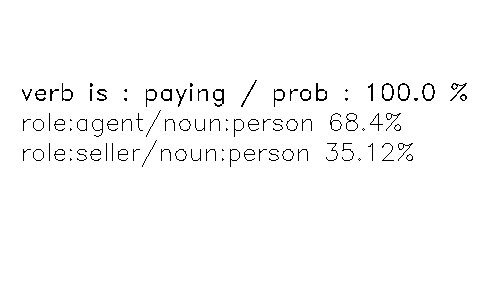
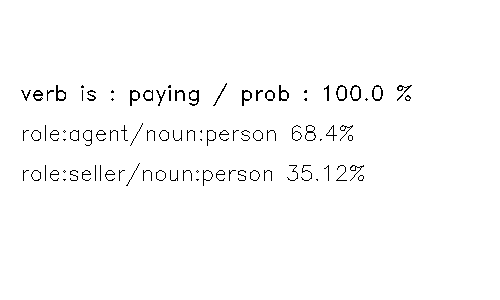
demo update

diff --git a/app/templates/home.html b/app/templates/home.html
@@ -1,73 +1,78 @@
 <!DOCTYPE html>
 <html>
 <head>
-  <!-- Global site tag (gtag.js) - Google Analytics -->
-  <!--<script async src="https://www.googletagmanager.com/gtag/js?id=UA-140461850-1"></script> -->
-  <script src="https://ajax.googleapis.com/ajax/libs/jquery/3.3.1/jquery.min.js"></script>
-  <script>
-    window.dataLayer = window.dataLayer || [];
-    function gtag(){dataLayer.push(arguments);}
-    gtag('js', new Date());
+    <!-- Global site tag (gtag.js) - Google Analytics -->
+    <!--<script async src="https://www.googletagmanager.com/gtag/js?id=UA-140461850-1"></script> -->
+    <script src="https://ajax.googleapis.com/ajax/libs/jquery/3.3.1/jquery.min.js"></script>
+    <script>
+        window.dataLayer = window.dataLayer || [];
 
-    gtag('config', 'UA-140461850-1');
-  </script>
-  <link rel="stylesheet" href="https://cdn.rawgit.com/Chalarangelo/mini.css/v2.3.7/dist/mini-default.min.css">
-  <!--
-  Note: This is a good css too worth looking at in the future : https://cdn.rawgit.com/Chalarangelo/mini.css/v3.0.1/dist/mini-nord.min.css
-  -->
+        function gtag() {
+            dataLayer.push(arguments);
+        }
 
-  <link rel="stylesheet" href="../static/style.css"> <!-- 여기에 time 붙여서 계속 다른값주면 계속 업데이트 될것. 아니면 ctrl shift r 누르기-->
-  <meta charset="UTF-8">
-  <title>Alphanumeric Recognition -  by Imad </title>
+        gtag('js', new Date());
+
+        gtag('config', 'UA-140461850-1');
+    </script>
+    <link rel="stylesheet" href="https://cdn.rawgit.com/Chalarangelo/mini.css/v2.3.7/dist/mini-default.min.css">
+    <!--
+    Note: This is a good css too worth looking at in the future : https://cdn.rawgit.com/Chalarangelo/mini.css/v3.0.1/dist/mini-nord.min.css
+    -->
+
+    <link rel="stylesheet" href="../static/style.css"> <!-- 여기에 time 붙여서 계속 다른값주면 계속 업데이트 될것. 아니면 ctrl shift r 누르기-->
+    <meta charset="UTF-8">
+    <title>Alphanumeric Recognition - by Imad </title>
 </head>
 
 <div class="common">
 
-<body>
+    <body>
 
-<header class="sticky row">
-  <div class="col-sm-12 col-md-10 col-md-offset-1">
-  <a href="#" class="logo">αnumeric</a>
-  <a href="./" class="button">App</a>
-  <a href="https://imadelhanafi.com/posts/train_deploy_ml_model/" class="button">Blog Post</a>
-  <a href="https://imadelhanafi.com" class="button" target="_blank">About</a>
-  </div>
-</header>
+    <header class="sticky row">
+        <div class="col-sm-12 col-md-10 col-md-offset-1">
+            <a href="#" class="logo">αnumeric</a>
+            <a href="./" class="button">App</a>
+            <a href="https://imadelhanafi.com/posts/train_deploy_ml_model/" class="button">Blog Post</a>
+            <a href="https://imadelhanafi.com" class="button" target="_blank">About</a>
+        </div>
+    </header>
 
-<div class="row">
-  <div class="col-sm-12 col-md-10 col-md-offset-1">
-    <br/>
-    <h1>Alphanumeric Recognition using PyTorch and Flask <small>deployed on Jetson Nano</small></h1>
-    <p>
-    Draw an alphabet or a digit in the left box.
-    The predicition and its probability will be shown in the the right box.
-    </p>
-   </br>
+    <div class="row">
+        <div class="col-sm-12 col-md-10 col-md-offset-1">
+            <br/>
+            <h1>Alphanumeric Recognition using PyTorch and Flask <small>deployed on Jetson Nano</small></h1>
+            <p>
+                Draw an alphabet or a digit in the left box.
+                The predicition and its probability will be shown in the the right box.
+            </p>
+            </br>
 
-  <div class="content1">
-        drag and drop here
-      <form id="myform" action = "/predict" method = "POST"
-          enctype = "multipart/form-data">
-      <input type = "file" name = "file" />
-    </form>
-  </div>
+            <div class="content1">
+                drag and drop here
+                <form id="myform" action="/predict" method="POST"
+                      enctype="multipart/form-data">
+                    <input type="file" name="file"/>
+                </form>
+            </div>
 
-  <div class="content2">
-        output image here
-  </div>
+            <div class="content2">
+                output image here
+            </div>
 
-</div>
+        </div>
 
-<div class="container" style="height: 8rem; position: relative; padding : 50px">
+        <div class="container" style="height: 8rem; position: relative; padding : 50px">
   <span class="toast doc" style="position: absolute;">
-    This web page made by yunsujeon | &copy; 2021 | <a href="https://github.com/yunsujeon/MLserving_ServiceContextUnderstanding"> Github Page</a>
+    This web page made by yunsujeon | &copy; 2021 | <a
+          href="https://github.com/yunsujeon/MLserving_ServiceContextUnderstanding"> Github Page</a>
   </span>
-</div>
+        </div>
 
-<script src ="../static/index.js"></script>
-<script src="//ajax.googleapis.com/ajax/libs/jquery/3.3.1/jquery.min.js"></script>
-<script src="//d3js.org/d3.v5.min.js"></script>
+        <script src="../static/index.js"></script>
+        <script src="//ajax.googleapis.com/ajax/libs/jquery/3.3.1/jquery.min.js"></script>
+        <script src="//d3js.org/d3.v5.min.js"></script>
     </div>
 
-</body>
+    </body>
 </div>

diff --git a/app/static/index.js b/app/static/index.js
@@ -153,7 +153,7 @@ function dragOver(e) {
     }
 }
 
-function uploadFiles(e) {
+async function uploadFiles(e) {
     e.stopPropagation();
     e.preventDefault();
     dragOver(e);
@@ -173,15 +173,22 @@ function uploadFiles(e) {
         });
         const formData = new FormData(document.getElementById('myform'));
         formData.append('image', files[0]);
-        fetch('/predict', {
+        const respond = await fetch('/predict', {
             method: 'POST',
-            body:formData
-        })
+            body: formData
+        });
+        const uint8Array = (await respond.body.getReader().read()).value;
+        const image = new Blob([uint8Array], {type:'image/png'});
+        const url = URL.createObjectURL(image);
+        $('.content2').css({
+            "background-image": "url(" + url + ")",
+            "outline": "none",
+            "background-size": "100% 100%"
+        });
     } else {
         alert('이미지가 아닙니다.');
         return;
     }
-
 }
 
 $('.content1')

diff --git a/app/static/style.css b/app/static/style.css
@@ -22,12 +22,14 @@
     background-color: darkgray;
 }
 
-#input1 {
+#myform{
+    display: inline-block;
     vertical-align: top;
-}
-
-#output1 {
-    vertical-align : top;
+    text-align: center;
+    transition: all .15s ease-in-out;
+    width: 500px;
+    height: 300px;
+    background-color: darkgray;
 }
 
 #predictdigit {

diff --git a/app/app.py b/app/app.py
@@ -1,33 +1,36 @@
 from pprint import pprint
 
-from flask import Flask, request, jsonify, render_template
+from flask import Flask, request, jsonify, render_template, send_file
 import base64, json
 from io import BytesIO
 import numpy as np
 import subprocess
 from PIL import Image
 from scipy import misc
+import os
+
 # declare constants
 HOST = '0.0.0.0'
 PORT = 8888
 
 app = Flask(__name__)
 
-@app.route('/') # flask에서는 장식자@ 는 URL연결에 사용딘다.
+
+@app.route('/')  # flask에서는 장식자@ 는 URL연결에 사용딘다.
 def home():
-    return render_template("home.html") #render_template 를 이용해 html을 불러온다
+    return render_template("home.html")  # render_template 를 이용해 html을 불러온다
 
-@app.route('/predict', methods=['GET','POST'])
+@app.route('/predict', methods=['GET', 'POST'])
 def predict():
-    pprint(request.files['image'].save("./keeponeimage/one.png"))  # 항상 같은이름으로 저
-
+    request.files['image'].save("./keeponeimage/one.png")  # 항상 같은이름으로 저
     subprocess.run(["python", "online_demo_imgcv.py"])  # 현 폴더에 있는 사진 전부를 가져가서 추론한다. 하나만 존재하도록 관리할것
 
-    # 결과는 이미지파일
-    result = './result.png'
+    filename = './result.png'
+    return send_file(filename, mimetype='image/png')
+    # send_file(filename, mimetype='image/png', attachment_filename=filename, as_attachment=True)
 
-    # output data
-    return json.dumps(result)
+    # return render_template('home.html', image_file="result.png")
+
 
 if __name__ == '__main__':
     # run web server

diff --git a/app/online_demo_imgcv.py b/app/online_demo_imgcv.py
@@ -145,19 +145,19 @@ resultwhite = np.ones((300,500,3),dtype=np.uint8)*255
 
 verbtext = 'verb is : {c1} / prob : {c2} %'.format(c1=verb_vocabulary[image_num], c2=round(verb_prob, 2))
 if noun_prob[i] > 95.0:
-    cv2.putText(resultwhite, verbtext, (20, 100), cv2.FONT_HERSHEY_DUPLEX, 0.8, (0, 0, 255))
+    cv2.putText(resultwhite, verbtext, (20, 100), cv2.FONT_HERSHEY_DUPLEX, 0.7, (0, 0, 255))
 else:
-    cv2.putText(resultwhite, verbtext, (20, 100), cv2.FONT_HERSHEY_DUPLEX, 0.8, (0, 0, 0))
+    cv2.putText(resultwhite, verbtext, (20, 100), cv2.FONT_HERSHEY_DUPLEX, 0.7, (0, 0, 0))
 
 cnt = 0
 for i in range(len(image_frame[0])):
     if num_output[i] != 0:
         textstr = 'role:{c1}/noun:{c2} {c3}%'.format(c1=image_frame[0][i], c2=indextonoun[num_output[i]], c3=round(noun_prob[i],2))
         print('role:', image_frame[0][i], '/ noun :', indextonoun[num_output[i]], '/ prob :', noun_prob[i])
-        cv2.putText(resultwhite, textstr, (20, 140 + (cnt * 40)), cv2.FONT_HERSHEY_SIMPLEX, 0.8, (0,0,0)) # r c 가 아닌 x y 좌표
+        cv2.putText(resultwhite, textstr, (20, 140 + (cnt * 40)), cv2.FONT_HERSHEY_SIMPLEX, 0.7, (0,0,0)) # r c 가 아닌 x y 좌표
         cnt += 1
 
 cv2.imwrite('./result.png', resultwhite)
 
 
-print('finished');
+print('finished')
